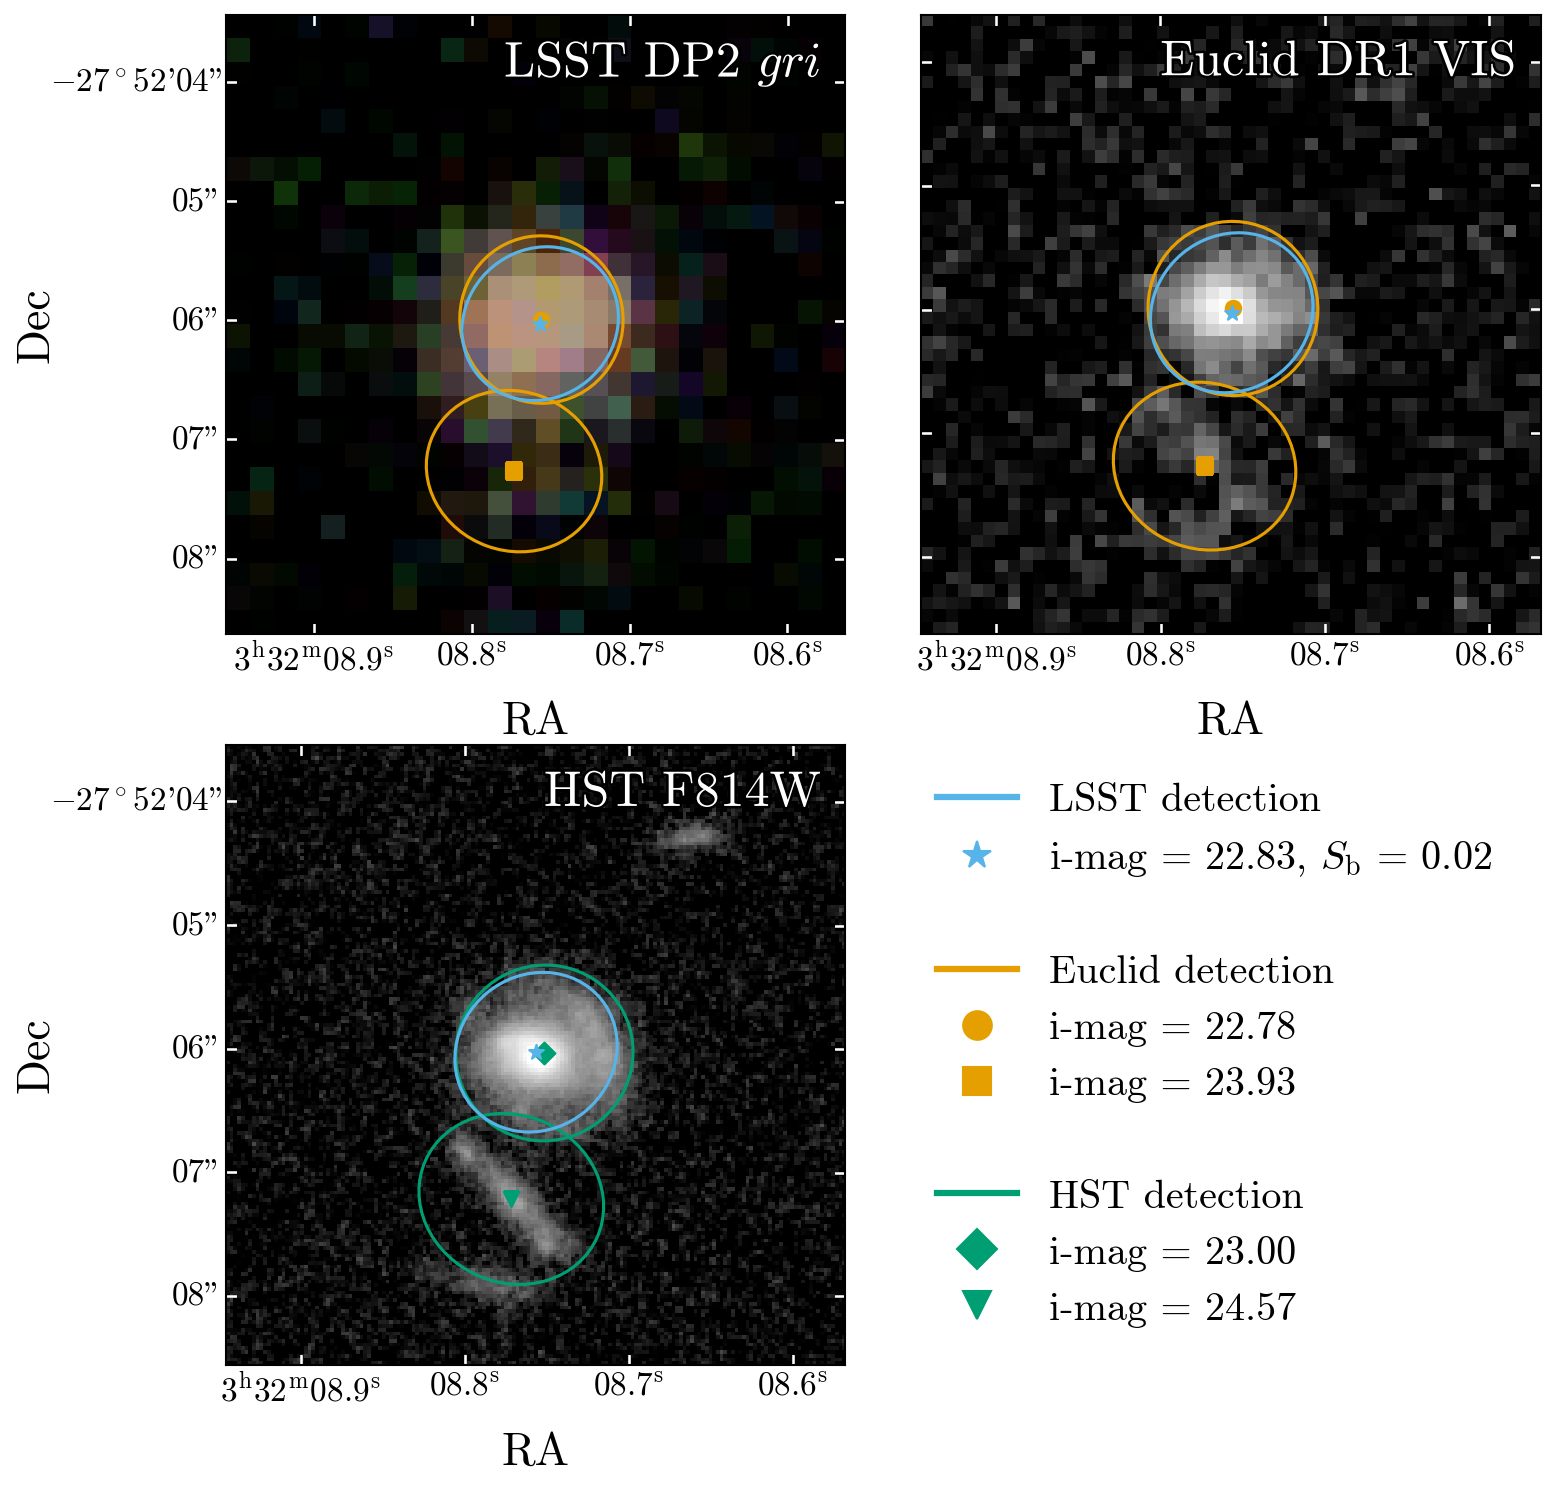
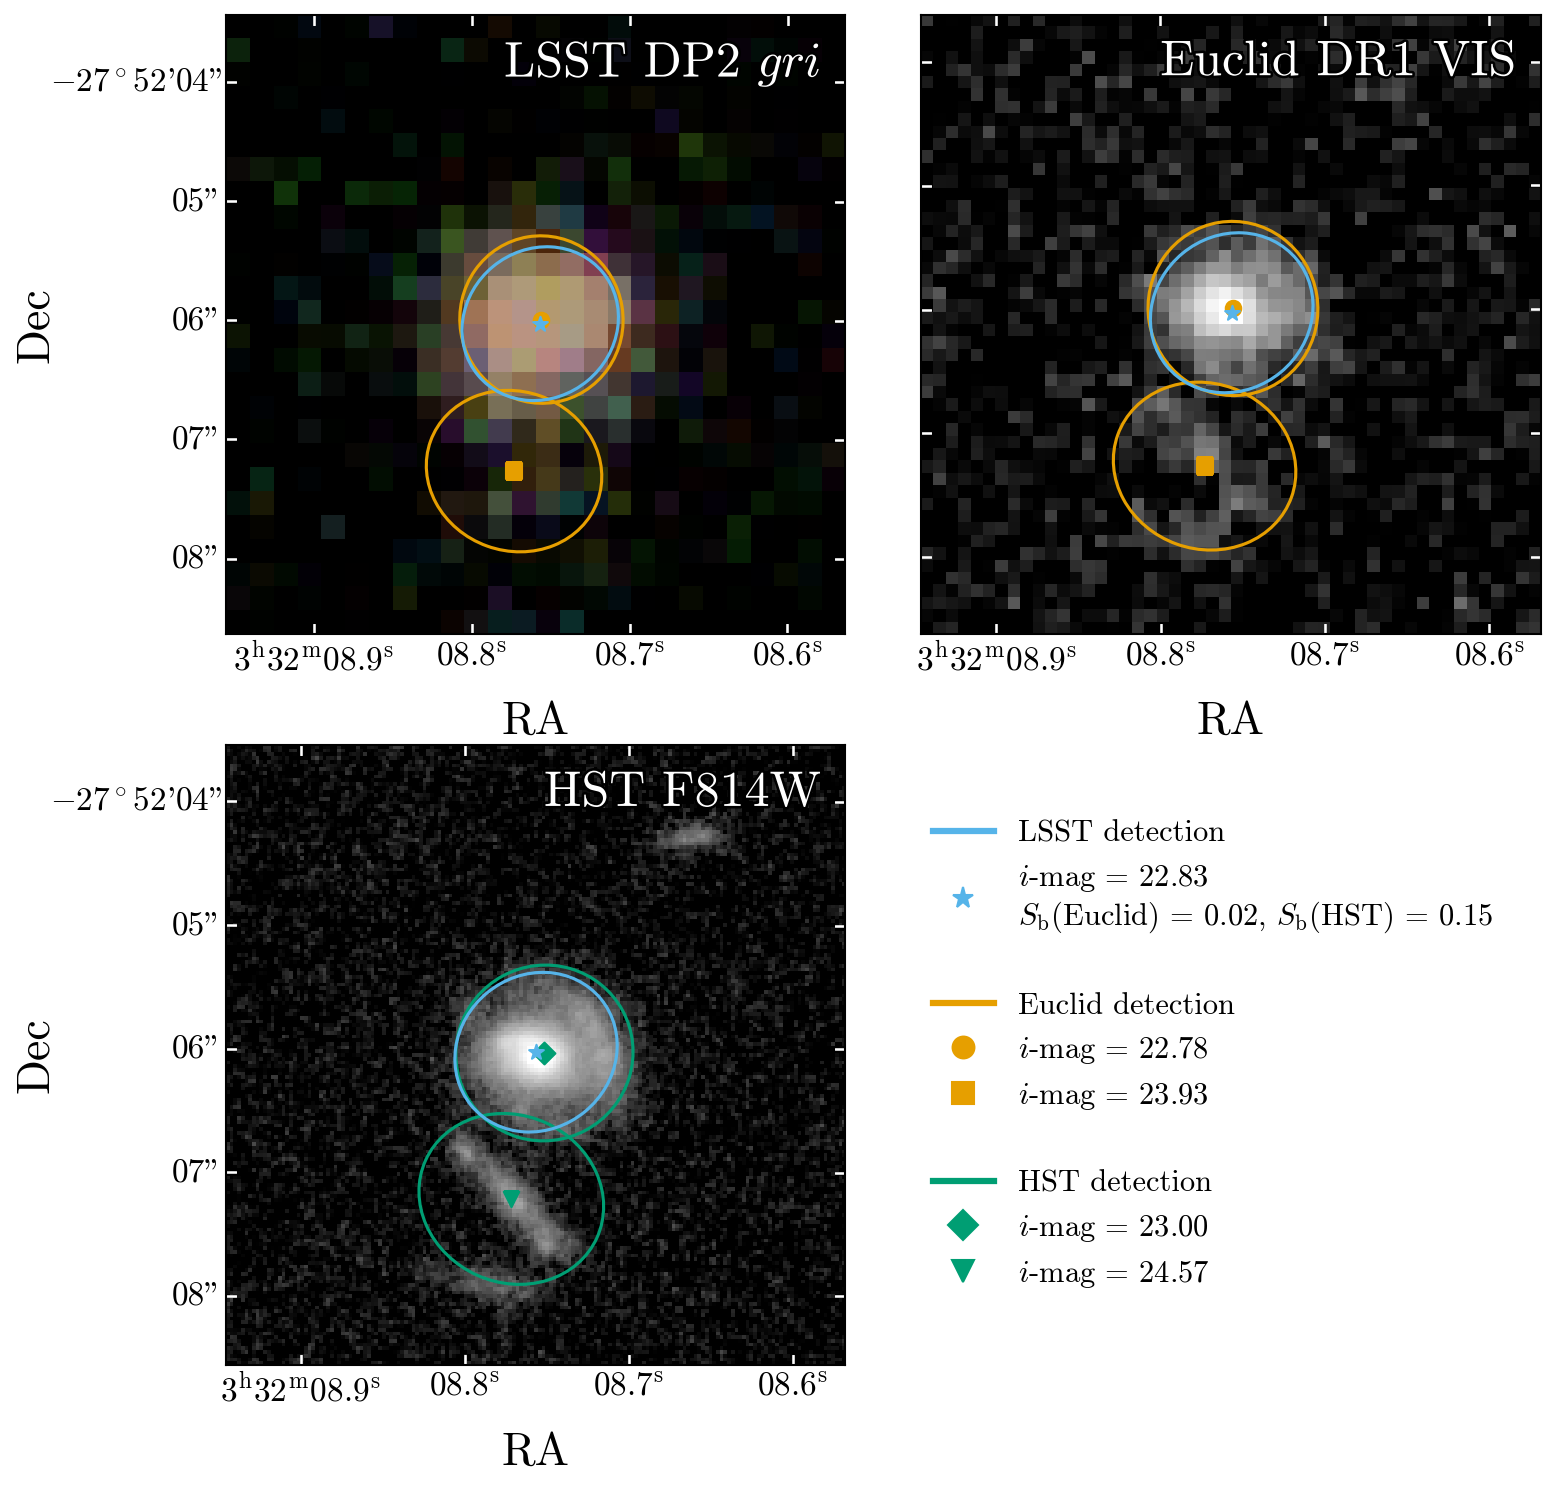
Added both Sb values for the images

diff --git a/index.md b/index.md
@@ -2,8 +2,8 @@
 
 ## Abstract
 
-Unrecognized blends, objects that correspond to several truth sources, are a known issue in LSST data and a significant source of photometric error. In this technote, we identify unrecognized blends in the LSST Data Preview 2 dataset (DP2) by comparing it to high-resolution, space-based observations from Euclid Data Release 1 (DR1) and the Hubble Space Telescope (HST) in the Extended Chandra Deep Field South (ECDFS). By matching sources detected in the LSST data with those from the space telescopes, first by position and then by the overlap of their observed shapes, we quantify the fraction of LSST objects that are unrecognized blends, i.e. blended in LSST but resolved in the space-based data. We find that $17.8\%$ of the DP2 objects with a Euclid counterpart are unrecognized blends, i.e. correspond to more Euclid galaxies than LSST detects, and $46.8\%$ with HST as the reference. Since this binary classification depends strongly on the depth of the reference survey, we then use the blending entropy $S_\text{b}$, a continuous metric that combines shape overlap with photometry, to quantify how ambiguous the galaxy association of each blend is.
-The fraction of DP2 objects that are blends ($S_\text{b} > 0$) peaks near $i \simeq 24$ at $\simeq 26\%$ with Euclid and $\simeq 42\%$ with HST but the fraction of ambiguous blends ($S_\text{b} > 0.2$) is comparable for the two references down to the magnitude where Euclid, the shallower reference survey, becomes incomplete, reaching $\simeq 20\%$ at $i \simeq 24$ with either.
+Unrecognized blends, objects that correspond to several truth sources, are a known issue in LSST data and a significant source of photometric error. In this technote, we identify unrecognized blends in the LSST Data Preview 2 (DP2) dataset by comparing it to high-resolution, space-based observations from Euclid Data Release 1 (DR1) and the Hubble Space Telescope (HST) in the Extended Chandra Deep Field South (ECDFS). By matching sources detected in the LSST data with those from the space telescopes, first by position and then by the overlap of their observed shapes, we quantify the fraction of LSST objects that are unrecognized blends, i.e. blended in LSST but resolved in the space-based data. We find that $17.8\%$ of the LSST DP2 objects with a Euclid counterpart are unrecognized blends, i.e. correspond to more Euclid galaxies than LSST detects, and $46.8\%$ with HST as the reference. Since this binary classification depends strongly on the depth of the reference survey, we then use the blending entropy $S_\text{b}$, a continuous metric that combines shape overlap with photometry, to quantify how ambiguous the galaxy association of each blend is.
+The fraction of DP2 objects that are blends ($S_\text{b} > 0$) peaks near $i \simeq 24$ at $\simeq 26\%$ with Euclid and $\simeq 42\%$ with HST but the fraction of ambiguous blends ($S_\text{b} > 0.2$) is comparable for the two references down to the magnitude where Euclid, the shallower reference survey, becomes incomplete, reaching $\simeq 20\%$ of ambiguous blends at $i \simeq 24$ with either reference survey.
 <!-- This metric gives comparable results for Euclid and HST down to the magnitude where Euclid, the shallower reference survey, becomes incomplete. This reconciles the two comparisons: at $i \simeq 24$, the fraction of DP2 objects having $S_\text{b} > 0.2$  is $20\%$ when compared to either Euclid or HST. This fraction is expected to decrease with the better image quality of LSST Data Release 1, and is directly relevant to the calibration of blending effects in weak-lensing analyses. -->
 
 
@@ -51,7 +51,7 @@ Bottom: One tenth of the detected galaxies in the ECDFS observed by LSST, Euclid
 The Euclid ECDFS footprint has an area of 3.56 deg{sup}`2` and contains 1,469,382 galaxies detected in the VIS band and 682,780 objects detected in the LSST DP2 dataset.
 The HST ECDFS footprint has an area of 0.18 deg{sup}`2` and contains 165,776 galaxies detected in the F814W band and 33,240 objects detected in the LSST DP2 dataset.
 
-In the following sections, we will refer to sources detected in the LSST DP2 dataset as *objects* and to sources detected in the Euclid and HST datasets as (reference) *galaxies*. We call *unrecognized blends* the objects that belong to a matched group (see Methods) containing more reference galaxies than LSST objects: in such groups, LSST detected fewer sources than the space-based reference. More generally, we call *blends* the objects whose ellipse overlaps those of at least two reference galaxies, i.e. objects with a blending entropy $S_\text{b} > 0$. A blend is not necessarily an unrecognized blend: in a group with two objects and two galaxies, LSST may have separated both sources even though their ellipses overlap.
+In the following sections, we will refer to sources detected in the LSST DP2 dataset as *objects* and to sources detected in the Euclid and HST datasets as (reference) *galaxies*. We call *unrecognized blends* the objects that belong to a matched group (see Methods) containing more reference galaxies than LSST objects: in such groups, LSST detected fewer sources than the space-based reference. More generally, we call *blends* the objects whose ellipse overlaps those of at least two reference galaxies, i.e. objects with a blending entropy $S_\text{b} > 0$.
 
 ## Methods
 
